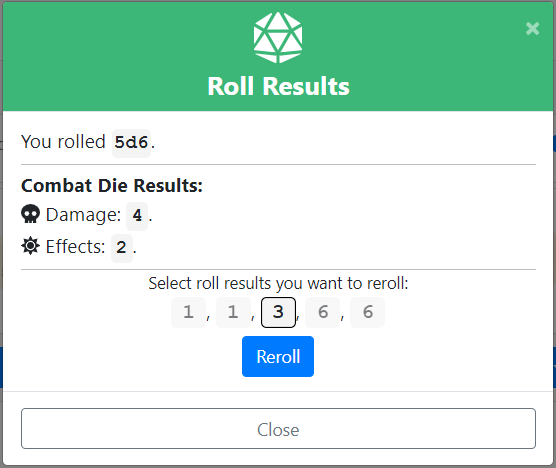
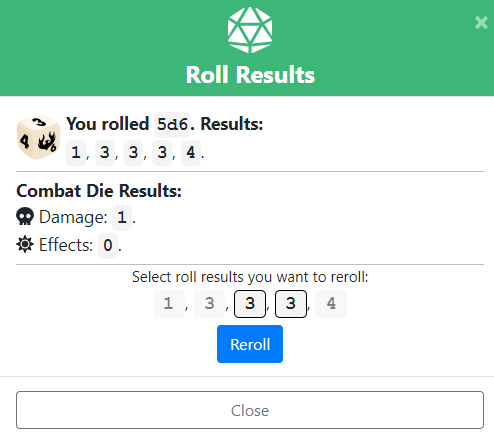
Update readme

Changed region(s): [[0.0, 0.0, 1.0, 1.0], [0.668, 0.6889, 0.6984, 0.7189]]

diff --git a/README.md b/README.md
@@ -55,6 +55,11 @@ And the results in Discord Chat:
 
 [![Conan 2d20 Mode Discord Chat](./public/conan-mode-4.png)]()
 
+## Pool Builder
+
+Allows to roll diffrent die types at once.
+
+[![Conan 2d20 Mode Discord Chat](./public/pool-builder.png)]()
 
 ## Setup
 
